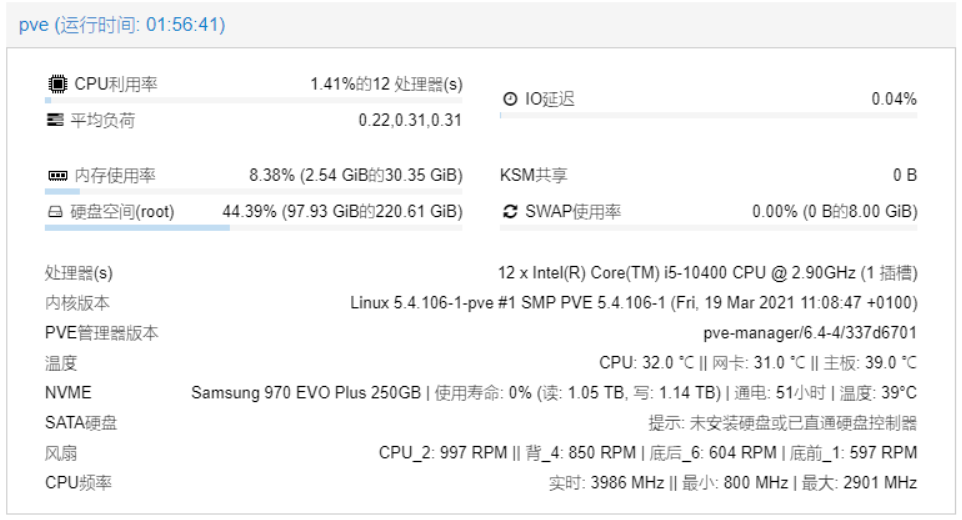
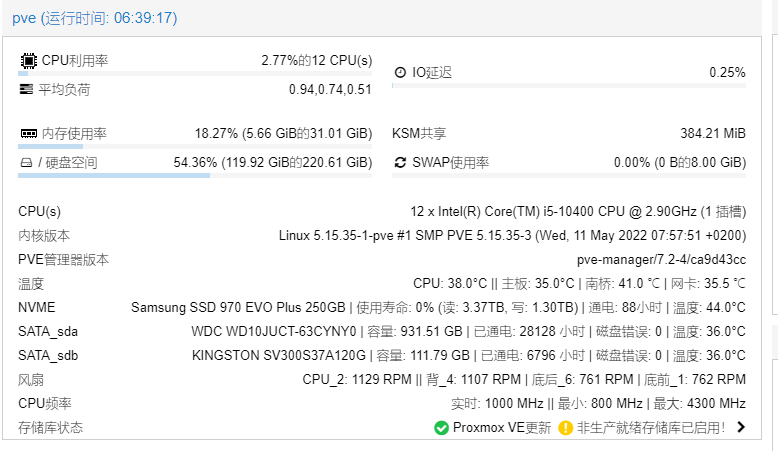
Site updated: 2022-05-31 03:08:18

diff --git a/2022/05/25/10400 MATX主机，ALL in one 记录二（pve初装设置和核显直通）/index.html b/2022/05/25/10400 MATX主机，ALL in one 记录二（pve初装设置和核显直通）/index.html
@@ -99,7 +99,7 @@ ga('send', 'pageview');
         <span class="post-meta-item-icon">
             <i class="ri-quill-pen-line"></i>
             <span class="post-meta-item-text"> Word count:</span>
-            <span class="post-count">2k</span>
+            <span class="post-count">2.1k</span>
         </span>
     </span>
 
@@ -130,10 +130,10 @@ ga('send', 'pageview');
 <figure class="highlight shell"><table><tr><td class="gutter"><pre><span class="line">1</span><br><span class="line">2</span><br></pre></td><td class="code"><pre><span class="line">lvremove pve/data</span><br><span class="line">lvextend -l +100%FREE -r pve/root</span><br></pre></td></tr></table></figure>
 <p>数据中心-存储-删除local-lvm<br>选择local，编辑，在内容里添加磁盘映像和容器<br>如果需要还原之前的虚拟机，则需要使用如下命令（无法使用 WEB 页面还原，因为储存位置不一致）</p>
 <figure class="highlight shell"><table><tr><td class="gutter"><pre><span class="line">1</span><br></pre></td><td class="code"><pre><span class="line">qmrestore /var/lib/vz/dump/vzdump-qemu-101-2022_05_19-19_07_41.vma.zst 101 -storage local</span><br></pre></td></tr></table></figure>
-<h5 id="2）换源、关闭订阅、首页温度提示等操作"><a href="#2）换源、关闭订阅、首页温度提示等操作" class="headerlink" title="2）换源、关闭订阅、首页温度提示等操作"></a>2）换源、关闭订阅、首页温度提示等操作</h5><p>参考：<br><a target="_blank" rel="noopener" href="https://github.com/xiangfeidexiaohuo/ProxmoxVE-7.0-DIY">https://github.com/xiangfeidexiaohuo/ProxmoxVE-7.0-DIY</a><br><a target="_blank" rel="noopener" href="http://songw.top/archives/748.html">http://songw.top/archives/748.html</a><br>3）主页显示温度</p>
+<h5 id="2）换源、关闭订阅、首页温度提示等操作"><a href="#2）换源、关闭订阅、首页温度提示等操作" class="headerlink" title="2）换源、关闭订阅、首页温度提示等操作"></a>2）换源、关闭订阅、首页温度提示等操作</h5><p>参考：<br><a target="_blank" rel="noopener" href="https://github.com/xiangfeidexiaohuo/ProxmoxVE-7.0-DIY">https://github.com/xiangfeidexiaohuo/ProxmoxVE-7.0-DIY</a><br><a target="_blank" rel="noopener" href="http://songw.top/archives/748.html">http://songw.top/archives/748.html</a><br><a target="_blank" rel="noopener" href="https://zry.io/archives/285">https://zry.io/archives/285</a><br>3）主页显示温度</p>
 <figure class="highlight shell"><table><tr><td class="gutter"><pre><span class="line">1</span><br><span class="line">2</span><br><span class="line">3</span><br><span class="line">4</span><br><span class="line">5</span><br><span class="line">6</span><br><span class="line">7</span><br><span class="line">8</span><br><span class="line">9</span><br><span class="line">10</span><br></pre></td><td class="code"><pre><span class="line"><span class="meta prompt_"># </span><span class="language-bash">更新软件包列表：</span></span><br><span class="line">apt-get update </span><br><span class="line"><span class="meta prompt_"># </span><span class="language-bash">安装lm-sensors：</span></span><br><span class="line">apt-get install lm-sensors &amp;&amp; apt-get install nvme-cli &amp;&amp; apt-get install hddtemp &amp;&amp; chmod +s /usr/sbin/nvme &amp;&amp; chmod +s /usr/sbin/hddtemp &amp;&amp; chmod +s /usr/sbin/smartctl &amp;&amp; systemctl restart pveproxy</span><br><span class="line"><span class="meta prompt_"># </span><span class="language-bash">初始化 sensors(一路<span class="built_in">yes</span>，回车)：</span></span><br><span class="line">sensors-detect</span><br><span class="line"><span class="meta prompt_"># </span><span class="language-bash">获取温度信息：</span></span><br><span class="line">sensors</span><br><span class="line"><span class="meta prompt_"># </span><span class="language-bash">这个时候是没有风扇等信息的，需要重启：</span></span><br><span class="line">reboot</span><br></pre></td></tr></table></figure>
-<p>自用补丁<br>链接: <a target="_blank" rel="noopener" href="https://pan.baidu.com/s/1QqXhgX5Rl9bytlsx8yZwgA?pwd=hcje">https://pan.baidu.com/s/1QqXhgX5Rl9bytlsx8yZwgA?pwd=hcje</a> 提取码: hcje<br>使用环境：<br>sensors 有风扇（fan1:）、CPU温度（Package id 0:）、PCI温度（PECI Agent 0: ）输出</p>
-<figure class="highlight shell"><table><tr><td class="gutter"><pre><span class="line">1</span><br><span class="line">2</span><br><span class="line">3</span><br></pre></td><td class="code"><pre><span class="line">patch /usr/share/perl5/PVE/API2/Nodes.pm &lt;~/tmp/Nodes.patch</span><br><span class="line">patch /usr/share/javascript/proxmox-widget-toolkit/proxmoxlib.js &lt;~/tmp/proxmoxlib.patch</span><br><span class="line">patch /usr/share/pve-manager/js/pvemanagerlib.js &lt;~/tmp/pvemanagerlib.patch</span><br></pre></td></tr></table></figure>
+<p>自用补丁<br>6.4: <a target="_blank" rel="noopener" href="https://pan.baidu.com/s/1QqXhgX5Rl9bytlsx8yZwgA?pwd=hcje">https://pan.baidu.com/s/1QqXhgX5Rl9bytlsx8yZwgA?pwd=hcje</a> 提取码: hcje<br>7.2: <a target="_blank" rel="noopener" href="https://pan.baidu.com/s/1WGtepNEZCSb3314xW40tMg?pwd=8cvp">https://pan.baidu.com/s/1WGtepNEZCSb3314xW40tMg?pwd=8cvp</a> 提取码: 8cvp<br>使用环境：<br>sensors 有风扇（fan1:）、CPU温度（Package id 0:）、PCI温度（PECI Agent 0: ）输出，一块 NVME、两块 SATA<br>自行参考代码</p>
+<figure class="highlight shell"><table><tr><td class="gutter"><pre><span class="line">1</span><br><span class="line">2</span><br><span class="line">3</span><br><span class="line">4</span><br><span class="line">5</span><br><span class="line">6</span><br><span class="line">7</span><br><span class="line">8</span><br><span class="line">9</span><br><span class="line">10</span><br><span class="line">11</span><br></pre></td><td class="code"><pre><span class="line"><span class="meta prompt_"># </span><span class="language-bash">备份</span></span><br><span class="line">proxmoxlib_js=&quot;/usr/share/javascript/proxmox-widget-toolkit/proxmoxlib.js&quot;</span><br><span class="line">Nodes_pm=&quot;/usr/share/perl5/PVE/API2/Nodes.pm&quot;</span><br><span class="line">pvemanagerlib_js=&quot;/usr/share/pve-manager/js/pvemanagerlib.js&quot;</span><br><span class="line">cp $&#123;proxmoxlib_js&#125; $&#123;proxmoxlib_js&#125;bak</span><br><span class="line">cp $&#123;Nodes_pm&#125; $&#123;Nodes_pm&#125;bak</span><br><span class="line">cp $&#123;pvemanagerlib_js&#125; $&#123;pvemanagerlib_js&#125;bak</span><br><span class="line"><span class="meta prompt_"># </span><span class="language-bash">应用补丁</span></span><br><span class="line">patch $&#123;proxmoxlib_js&#125; &lt;~/tmp/proxmoxlib.patch</span><br><span class="line">patch $&#123;Nodes_pm&#125; &lt;~/tmp/Nodes.patch</span><br><span class="line">patch $&#123;pvemanagerlib_js&#125; &lt;~/tmp/pvemanagerlib.patch</span><br></pre></td></tr></table></figure>
 <p><img src="/images/2022/2_1.png" alt="页面效果"></p>
 <h4 id="4-直通篇"><a href="#4-直通篇" class="headerlink" title="4. 直通篇"></a>4. 直通篇</h4><p>大同小异，只说一些坑和一些配置说明</p>
 <h5 id="1）-x2F-etc-x2F-default-x2F-grub-文件"><a href="#1）-x2F-etc-x2F-default-x2F-grub-文件" class="headerlink" title="1）&#x2F;etc&#x2F;default&#x2F;grub 文件"></a>1）&#x2F;etc&#x2F;default&#x2F;grub 文件</h5><p>很多攻略中使用的<br>video&#x3D;vesafb:off,efifb:off  已经无法使用（大概在7.x版本）<br>需要改成 video&#x3D;vesafb:off video&#x3D;efifb:off<br>如果是 pve-kernel 5.15 可能还需要 video&#x3D;simplefb:off<br>详见：<a target="_blank" rel="noopener" href="https://forum.proxmox.com/threads/pve7-failed-to-mmap-xxxx-xx-xx-x-bar-3-performance-may-be-slow.108129/">https://forum.proxmox.com/threads/pve7-failed-to-mmap-xxxx-xx-xx-x-bar-3-performance-may-be-slow.108129/</a></p>

diff --git a/index.html b/index.html
@@ -202,10 +202,10 @@ ga('send', 'pageview');
 <figure class="highlight shell"><table><tr><td class="gutter"><pre><span class="line">1</span><br><span class="line">2</span><br></pre></td><td class="code"><pre><span class="line">lvremove pve/data</span><br><span class="line">lvextend -l +100%FREE -r pve/root</span><br></pre></td></tr></table></figure>
 <p>数据中心-存储-删除local-lvm<br>选择local，编辑，在内容里添加磁盘映像和容器<br>如果需要还原之前的虚拟机，则需要使用如下命令（无法使用 WEB 页面还原，因为储存位置不一致）</p>
 <figure class="highlight shell"><table><tr><td class="gutter"><pre><span class="line">1</span><br></pre></td><td class="code"><pre><span class="line">qmrestore /var/lib/vz/dump/vzdump-qemu-101-2022_05_19-19_07_41.vma.zst 101 -storage local</span><br></pre></td></tr></table></figure>
-<h5 id="2）换源、关闭订阅、首页温度提示等操作"><a href="#2）换源、关闭订阅、首页温度提示等操作" class="headerlink" title="2）换源、关闭订阅、首页温度提示等操作"></a>2）换源、关闭订阅、首页温度提示等操作</h5><p>参考：<br><a target="_blank" rel="noopener" href="https://github.com/xiangfeidexiaohuo/ProxmoxVE-7.0-DIY">https://github.com/xiangfeidexiaohuo/ProxmoxVE-7.0-DIY</a><br><a target="_blank" rel="noopener" href="http://songw.top/archives/748.html">http://songw.top/archives/748.html</a><br>3）主页显示温度</p>
+<h5 id="2）换源、关闭订阅、首页温度提示等操作"><a href="#2）换源、关闭订阅、首页温度提示等操作" class="headerlink" title="2）换源、关闭订阅、首页温度提示等操作"></a>2）换源、关闭订阅、首页温度提示等操作</h5><p>参考：<br><a target="_blank" rel="noopener" href="https://github.com/xiangfeidexiaohuo/ProxmoxVE-7.0-DIY">https://github.com/xiangfeidexiaohuo/ProxmoxVE-7.0-DIY</a><br><a target="_blank" rel="noopener" href="http://songw.top/archives/748.html">http://songw.top/archives/748.html</a><br><a target="_blank" rel="noopener" href="https://zry.io/archives/285">https://zry.io/archives/285</a><br>3）主页显示温度</p>
 <figure class="highlight shell"><table><tr><td class="gutter"><pre><span class="line">1</span><br><span class="line">2</span><br><span class="line">3</span><br><span class="line">4</span><br><span class="line">5</span><br><span class="line">6</span><br><span class="line">7</span><br><span class="line">8</span><br><span class="line">9</span><br><span class="line">10</span><br></pre></td><td class="code"><pre><span class="line"><span class="meta prompt_"># </span><span class="language-bash">更新软件包列表：</span></span><br><span class="line">apt-get update </span><br><span class="line"><span class="meta prompt_"># </span><span class="language-bash">安装lm-sensors：</span></span><br><span class="line">apt-get install lm-sensors &amp;&amp; apt-get install nvme-cli &amp;&amp; apt-get install hddtemp &amp;&amp; chmod +s /usr/sbin/nvme &amp;&amp; chmod +s /usr/sbin/hddtemp &amp;&amp; chmod +s /usr/sbin/smartctl &amp;&amp; systemctl restart pveproxy</span><br><span class="line"><span class="meta prompt_"># </span><span class="language-bash">初始化 sensors(一路<span class="built_in">yes</span>，回车)：</span></span><br><span class="line">sensors-detect</span><br><span class="line"><span class="meta prompt_"># </span><span class="language-bash">获取温度信息：</span></span><br><span class="line">sensors</span><br><span class="line"><span class="meta prompt_"># </span><span class="language-bash">这个时候是没有风扇等信息的，需要重启：</span></span><br><span class="line">reboot</span><br></pre></td></tr></table></figure>
-<p>自用补丁<br>链接: <a target="_blank" rel="noopener" href="https://pan.baidu.com/s/1QqXhgX5Rl9bytlsx8yZwgA?pwd=hcje">https://pan.baidu.com/s/1QqXhgX5Rl9bytlsx8yZwgA?pwd=hcje</a> 提取码: hcje<br>使用环境：<br>sensors 有风扇（fan1:）、CPU温度（Package id 0:）、PCI温度（PECI Agent 0: ）输出</p>
-<figure class="highlight shell"><table><tr><td class="gutter"><pre><span class="line">1</span><br><span class="line">2</span><br><span class="line">3</span><br></pre></td><td class="code"><pre><span class="line">patch /usr/share/perl5/PVE/API2/Nodes.pm &lt;~/tmp/Nodes.patch</span><br><span class="line">patch /usr/share/javascript/proxmox-widget-toolkit/proxmoxlib.js &lt;~/tmp/proxmoxlib.patch</span><br><span class="line">patch /usr/share/pve-manager/js/pvemanagerlib.js &lt;~/tmp/pvemanagerlib.patch</span><br></pre></td></tr></table></figure>
+<p>自用补丁<br>6.4: <a target="_blank" rel="noopener" href="https://pan.baidu.com/s/1QqXhgX5Rl9bytlsx8yZwgA?pwd=hcje">https://pan.baidu.com/s/1QqXhgX5Rl9bytlsx8yZwgA?pwd=hcje</a> 提取码: hcje<br>7.2: <a target="_blank" rel="noopener" href="https://pan.baidu.com/s/1WGtepNEZCSb3314xW40tMg?pwd=8cvp">https://pan.baidu.com/s/1WGtepNEZCSb3314xW40tMg?pwd=8cvp</a> 提取码: 8cvp<br>使用环境：<br>sensors 有风扇（fan1:）、CPU温度（Package id 0:）、PCI温度（PECI Agent 0: ）输出，一块 NVME、两块 SATA<br>自行参考代码</p>
+<figure class="highlight shell"><table><tr><td class="gutter"><pre><span class="line">1</span><br><span class="line">2</span><br><span class="line">3</span><br><span class="line">4</span><br><span class="line">5</span><br><span class="line">6</span><br><span class="line">7</span><br><span class="line">8</span><br><span class="line">9</span><br><span class="line">10</span><br><span class="line">11</span><br></pre></td><td class="code"><pre><span class="line"><span class="meta prompt_"># </span><span class="language-bash">备份</span></span><br><span class="line">proxmoxlib_js=&quot;/usr/share/javascript/proxmox-widget-toolkit/proxmoxlib.js&quot;</span><br><span class="line">Nodes_pm=&quot;/usr/share/perl5/PVE/API2/Nodes.pm&quot;</span><br><span class="line">pvemanagerlib_js=&quot;/usr/share/pve-manager/js/pvemanagerlib.js&quot;</span><br><span class="line">cp $&#123;proxmoxlib_js&#125; $&#123;proxmoxlib_js&#125;bak</span><br><span class="line">cp $&#123;Nodes_pm&#125; $&#123;Nodes_pm&#125;bak</span><br><span class="line">cp $&#123;pvemanagerlib_js&#125; $&#123;pvemanagerlib_js&#125;bak</span><br><span class="line"><span class="meta prompt_"># </span><span class="language-bash">应用补丁</span></span><br><span class="line">patch $&#123;proxmoxlib_js&#125; &lt;~/tmp/proxmoxlib.patch</span><br><span class="line">patch $&#123;Nodes_pm&#125; &lt;~/tmp/Nodes.patch</span><br><span class="line">patch $&#123;pvemanagerlib_js&#125; &lt;~/tmp/pvemanagerlib.patch</span><br></pre></td></tr></table></figure>
 <p><img src="/images/2022/2_1.png" alt="页面效果"></p>
 <h4 id="4-直通篇"><a href="#4-直通篇" class="headerlink" title="4. 直通篇"></a>4. 直通篇</h4><p>大同小异，只说一些坑和一些配置说明</p>
 <h5 id="1）-x2F-etc-x2F-default-x2F-grub-文件"><a href="#1）-x2F-etc-x2F-default-x2F-grub-文件" class="headerlink" title="1）&#x2F;etc&#x2F;default&#x2F;grub 文件"></a>1）&#x2F;etc&#x2F;default&#x2F;grub 文件</h5><p>很多攻略中使用的<br>video&#x3D;vesafb:off,efifb:off  已经无法使用（大概在7.x版本）<br>需要改成 video&#x3D;vesafb:off video&#x3D;efifb:off<br>如果是 pve-kernel 5.15 可能还需要 video&#x3D;simplefb:off<br>详见：<a target="_blank" rel="noopener" href="https://forum.proxmox.com/threads/pve7-failed-to-mmap-xxxx-xx-xx-x-bar-3-performance-may-be-slow.108129/">https://forum.proxmox.com/threads/pve7-failed-to-mmap-xxxx-xx-xx-x-bar-3-performance-may-be-slow.108129/</a></p>
